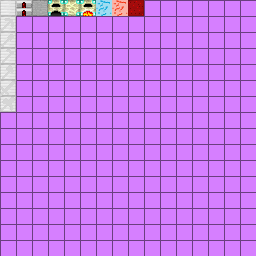
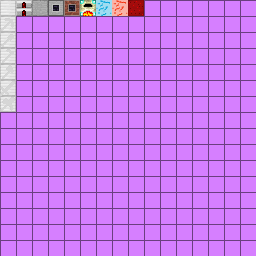
Created Player Plate, created new textures
- Created texture for Detection Plate and Player Plate
- Created (and finished!) Player Plate

Changed region(s): [[0.1875, 0.0, 0.3125, 0.0625]]

diff --git a/MoreRed Source/src/absorr/morered/base/MoreRed.java b/MoreRed Source/src/absorr/morered/base/MoreRed.java
@@ -12,6 +12,8 @@ import java.util.Map.Entry;
 import java.util.Random;
 
 import cpw.mods.fml.common.*;
+import cpw.mods.fml.common.Mod.Init;
+import cpw.mods.fml.common.event.FMLInitializationEvent;
 import cpw.mods.fml.common.network.NetworkMod;
 import absorr.morered.base.*;
 import absorr.morered.materials.*;
@@ -39,9 +41,10 @@ public class MoreRed extends BaseMod
     public static Block ironButton; 
     public static Block rsChest;
     public static Block detecPlate; 
+    public static Block playerPlate;
     
-    
-    public void load()
+    @Init
+    public void load(FMLInitializationEvent event)
     {
     	proxy.registerRenderers();
     	
@@ -59,7 +62,8 @@ public class MoreRed extends BaseMod
         invScanner = new BlockInventoryScanner(Config.scannerID, 6).setHardness(1.0F).setResistance(6000.0F).setLightValue(0.0F).setBlockName("Inventory Scanner"); 
         ironButton = new BlockIronButton(Config.ironButtonID, 22).setHardness(1.0F).setResistance(6000.0F).setLightValue(0.0F).setBlockName("Iron Button"); 
         rsChest = new BlockRedChest(Config.rsChestID).setHardness(1.0F).setResistance(6000.0F).setLightValue(0.0F).setBlockName("Redstone Chest"); 
-        detecPlate = new BlockDetecPlate(Config.detecID, 9, Material.rock).setHardness(1.0F).setResistance(6000.0F).setLightValue(0.0F).setBlockName("Detection Plate");
+        detecPlate = new BlockDetecPlate(Config.detecID, 4, Material.rock).setHardness(1.0F).setResistance(6000.0F).setLightValue(0.0F).setBlockName("Detection Plate");
+        playerPlate = new BlockPlayerPlate(Config.playPlateID, 3, Material.rock).setHardness(1.0F).setResistance(6000.0F).setLightValue(0.0F).setBlockName("Player Plate");
 
     	loadMaterials();
     	proxy.addMerchantRecipies();
@@ -142,7 +146,11 @@ public class MoreRed extends BaseMod
         //Detection Plate
         ModLoader.registerBlock(detecPlate); 
         ModLoader.addName(new ItemStack(detecPlate), "Detection Plate");
-        ModLoader.addRecipe(new ItemStack(detecPlate), new Object[] {"CRC", "RER", "CBC", 'R', rsIngot, 'B', Block.brick, 'C', Item.brick, 'E', Item.enderPearl});
+        ModLoader.addRecipe(new ItemStack(detecPlate), new Object[] {"CRC", "RER", "CBC", 'R', rsIngot, 'B', playerPlate, 'C', Item.brick, 'E', Item.enderPearl});
+        //Player Plate
+        ModLoader.registerBlock(playerPlate); 
+        ModLoader.addName(new ItemStack(playerPlate), "Player Plate");
+        ModLoader.addShapelessRecipe(new ItemStack(playerPlate), new Object[] {Block.pressurePlateStone, Block.obsidian});
     }
     public String getVersion()
     {
@@ -153,7 +161,9 @@ public class MoreRed extends BaseMod
     	switch(id)
     	{
     		case 0: return new GuiScanner(player.inventory, (TileEntityScanner)player.worldObj.getBlockTileEntity(x, y, z));
+    		case 1: return new GuiDetecPlate(player.inventory, (TileEntityDetecPlate)player.worldObj.getBlockTileEntity(x, y, z));
     		default: return null;
     	}
     }
+    public void load(){load(new FMLInitializationEvent());}
 }

diff --git a/MoreRed Source/src/absorr/morered/base/Config.java b/MoreRed Source/src/absorr/morered/base/Config.java
@@ -23,6 +23,7 @@ public class Config
 	    public static int crowbarID;
 	    public static int screwdriverID;
 	    public static int detecID;
+	    public static int playPlateID;
 	    public static int configurationProperties()
 	    {
 	            configuration.load();
@@ -31,6 +32,7 @@ public class Config
 	            ironButtonID = Integer.parseInt(configuration.getBlock(Configuration.CATEGORY_BLOCK, "Iron_Button", 194).value);
 	            rsChestID = Integer.parseInt(configuration.getBlock(Configuration.CATEGORY_BLOCK, "Redstone_Chest", 195).value);
 	            detecID = Integer.parseInt(configuration.getBlock(Configuration.CATEGORY_BLOCK, "Detection_Plate", 196).value);
+	            playPlateID = Integer.parseInt(configuration.getBlock(Configuration.CATEGORY_BLOCK, "Player_Plate", 197).value);
 	            rsChunkID = Integer.parseInt(configuration.getItem(Configuration.CATEGORY_ITEM, "Redstone_Chunk", 5980).value);
 	            rsIngotID = Integer.parseInt(configuration.getItem(Configuration.CATEGORY_ITEM, "Redstone_Ingot", 5981).value);
 	            rsPickID = Integer.parseInt(configuration.getItem(Configuration.CATEGORY_ITEM, "Redstone_Pickaxe", 5983).value);

diff --git a/MoreRed Source/src/absorr/morered/materials/BlockDetecPlate.java b/MoreRed Source/src/absorr/morered/materials/BlockDetecPlate.java
@@ -121,6 +121,7 @@ public class BlockDetecPlate extends BlockContainer
             	int slot1 = tile.getStackInSlot(0).getItemDamage();
             	int slot2 = tile.getStackInSlot(1).getItemDamage();
             	int slot3 = tile.getStackInSlot(2).getItemDamage();
+            	System.out.println(slot1 + " " + slot2 + " " + slot3 + " Ent: " + par5Entity.entityId);
 	            if (par1World.getBlockMetadata(par2, par3, par4) != 1)
 	            {
 	            	int entID = par5Entity.entityId;
@@ -255,7 +256,14 @@ public class BlockDetecPlate extends BlockContainer
     	TileEntityDetecPlate var6 = (TileEntityDetecPlate)world.getBlockTileEntity(x, y, z);
         if (var6 != null)
         {
-            ModLoader.openGUI(player, new GuiDetecPlate(player.inventory, var6));
+        	if(player instanceof EntityPlayerMP)
+            {
+        		ModLoader.serverOpenWindow((EntityPlayerMP)player, new ContainerDetecPlate(player.inventory,var6), 0, x, y, z);
+            }
+            else
+            {
+            	ModLoader.openGUI((EntityPlayerSP)player, new GuiDetecPlate(player.inventory, var6));
+            }
         }
 
         return true;

diff --git a/MoreRed Source/src/absorr/morered/materials/BlockRedChest.java b/MoreRed Source/src/absorr/morered/materials/BlockRedChest.java
@@ -101,28 +101,4 @@ public class BlockRedChest extends BlockChest
     	else
     		return false;
     }
-
-    /**
-     * Looks for a sitting ocelot within certain bounds. Such an ocelot is considered to be blocking access to the
-     * chest.
-     */
-    public static boolean isOcelotBlockingChest(World par0World, int par1, int par2, int par3)
-    {
-        Iterator var4 = par0World.getEntitiesWithinAABB(EntityOcelot.class, AxisAlignedBB.getAABBPool().addOrModifyAABBInPool((double)par1, (double)(par2 + 1), (double)par3, (double)(par1 + 1), (double)(par2 + 2), (double)(par3 + 1))).iterator();
-        EntityOcelot var6;
-
-        do
-        {
-            if (!var4.hasNext())
-            {
-                return false;
-            }
-
-            EntityOcelot var5 = (EntityOcelot)var4.next();
-            var6 = (EntityOcelot)var5;
-        }
-        while (!var6.isSitting());
-
-        return true;
-    }
 }

diff --git a/MoreRed Source/src/absorr/morered/materials/BlockPlayerPlate.java b/MoreRed Source/src/absorr/morered/materials/BlockPlayerPlate.java
@@ -1,0 +1,14 @@
+package absorr.morered.materials;
+
+import absorr.morered.base.ClientProxy;
+import net.minecraft.src.*;
+
+public class BlockPlayerPlate extends BlockPressurePlate
+{
+
+	public BlockPlayerPlate(int par1, int par2, Material par4Material) {
+		super(par1, par2, EnumMobType.players, par4Material);
+		this.setTextureFile(ClientProxy.blockPic);
+	}
+
+}
